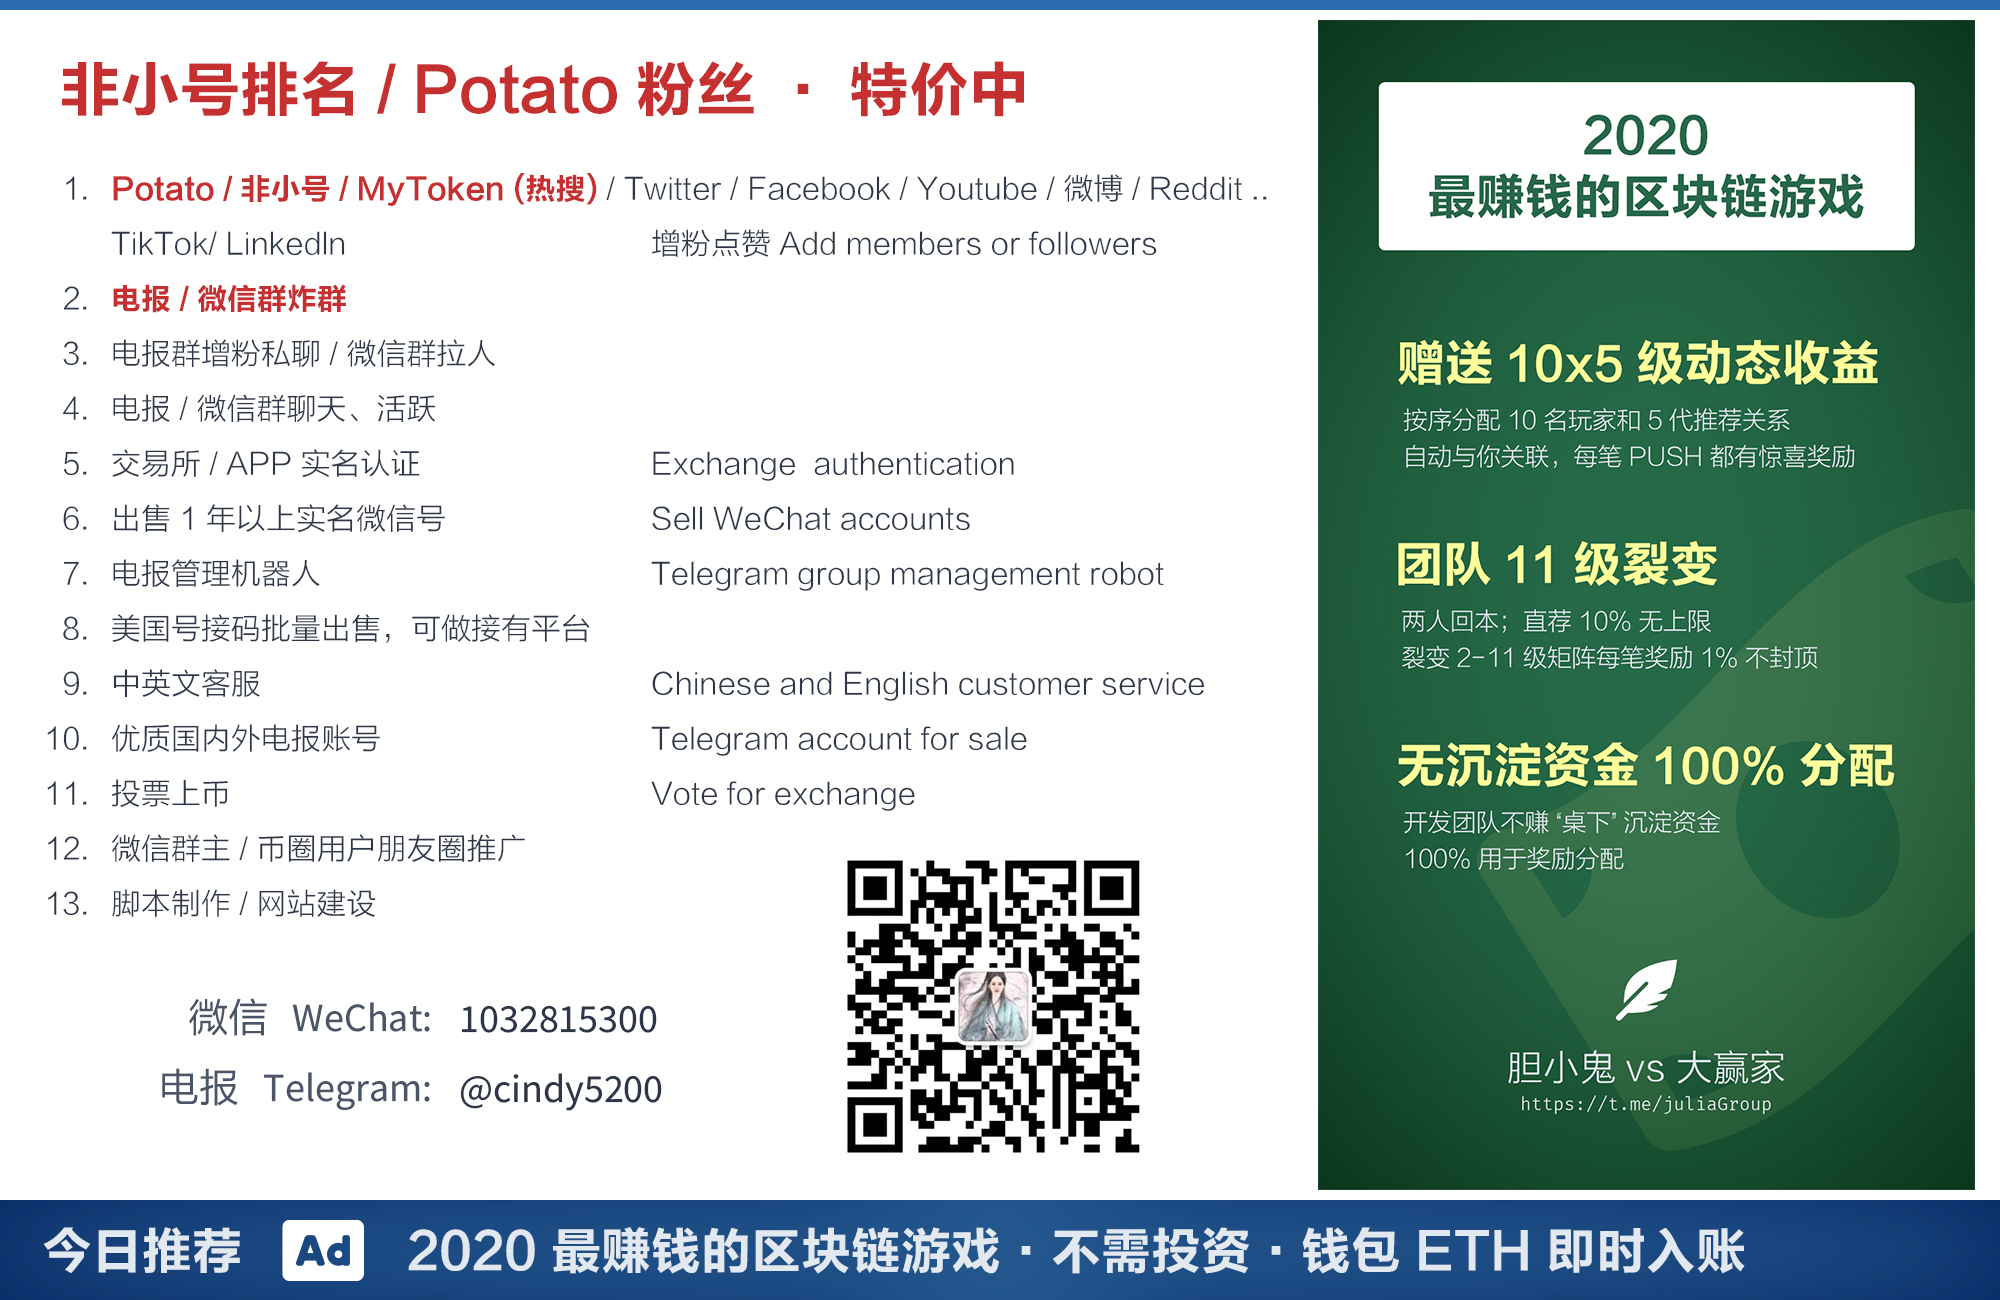
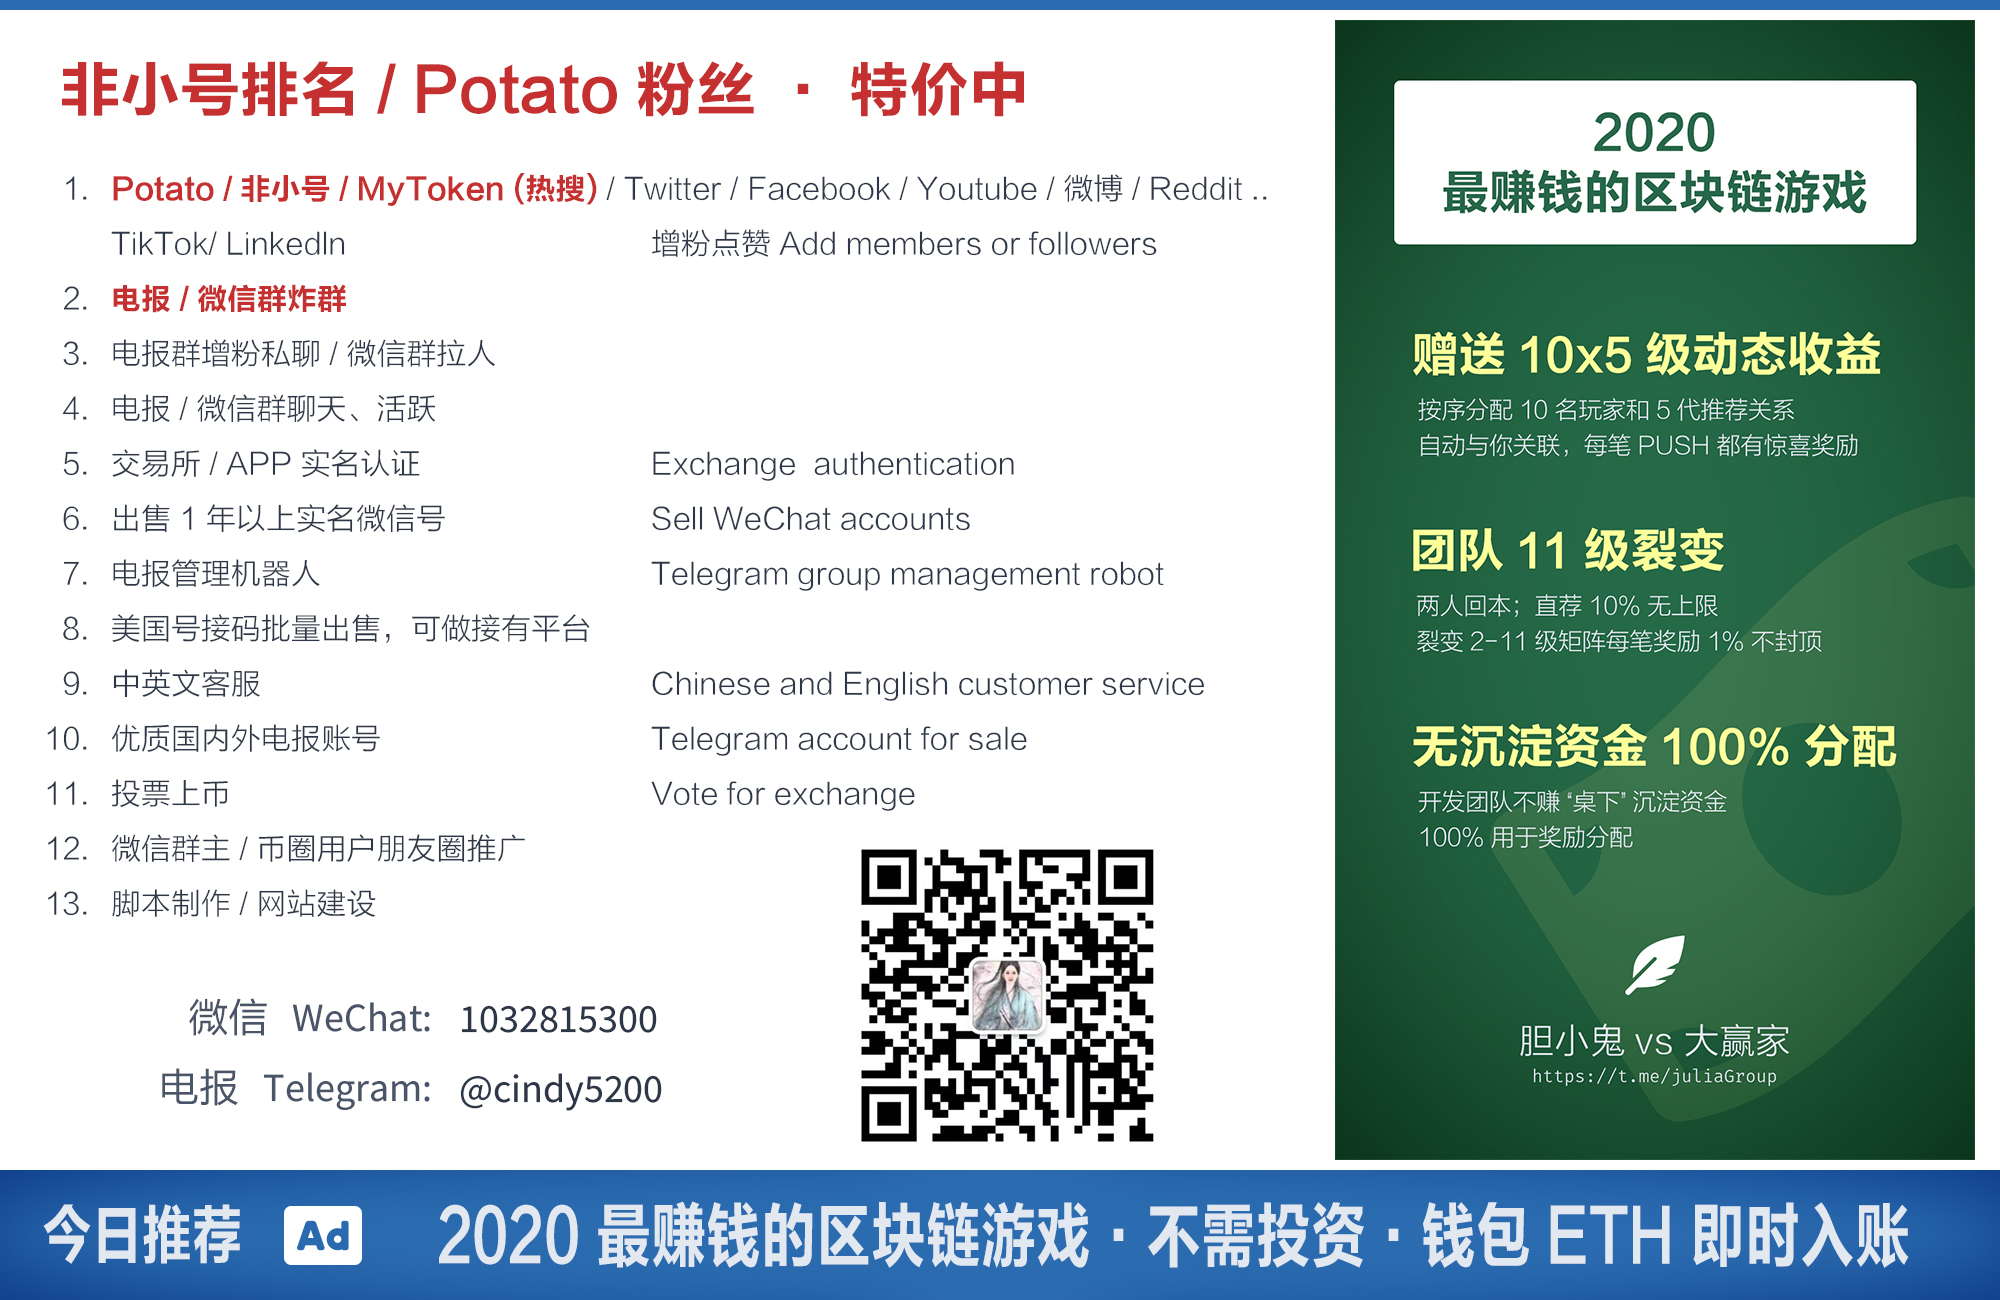
updated ad via cindy5200

Changed region(s): [[0.0, 0.0, 1.0, 1.0], [0.744, 0.7077, 0.899, 0.8615], [0.93, 0.0615, 0.961, 0.0923]]

diff --git a/ad-cindy5200.md b/ad-cindy5200.md
@@ -11,17 +11,139 @@ tagline: 定案后再开始投放
 
 ## 文本
 
-Sample 1
+初始席位有限，快来进群组队
 
 ```text
-🔥
-《胆小鬼 vs 大赢家》 创世玩家招募中，启动筹备，欢迎来撩 @juliaGroup
+🔥 启动筹备中，初始席位有限，快来进群组队 @juliaGroup
 ```
 
-Sample 2
+```text
+🔥 创世筹备中，初始席位有限，快来进群组队 @juliaGroup
+```
 
-Sample 3
+```text
+🔥 创世招募中，初始席位有限，快来进群组队 @juliaGroup
+```
 
-..
 
-待定
+初始席位有限，快快进群组队
+
+```text
+🔥 启动筹备中，初始席位有限，快快进群组队 @juliaGroup
+```
+
+```text
+🔥 创世筹备中，初始席位有限，快快进群组队 @juliaGroup
+```
+
+```text
+🔥 创世招募中，初始席位有限，快快进群组队 @juliaGroup
+```
+
+
+初始席位有限，快来预定
+
+```text
+🔥 启动筹备中，初始席位有限，快来预定 @juliaGroup
+```
+
+```text
+🔥 创世筹备中，初始席位有限，快来预定 @juliaGroup
+```
+
+```text
+🔥 创世招募中，初始席位有限，快来预定 @juliaGroup
+```
+
+
+来来，进群组队
+
+```text
+🔥 启动筹备中，来来，进群组队 @juliaGroup
+```
+
+```text
+🔥 创世筹备中，来来，进群组队 @juliaGroup
+```
+
+```text
+🔥 创世招募中，来来，进群组队 @juliaGroup
+```
+
+
+## 次选文本
+
+初始席位有限，来撩
+
+```text
+🔥 启动筹备中，初始席位有限，来撩 @juliaGroup
+```
+
+```text
+🔥 创世筹备中，初始席位有限，来撩 @juliaGroup
+```
+
+```text
+🔥 创世招募中，初始席位有限，来撩 @juliaGroup
+```
+
+
+来来，进群领福利
+
+```text
+🔥 启动筹备中，来来，进群领福利 @juliaGroup
+```
+
+```text
+🔥 创世筹备中，来来，进群领福利 @juliaGroup
+```
+
+```text
+🔥 创世招募中，来来，进群领福利 @juliaGroup
+```
+
+
+
+欢迎来撩
+
+```text
+🔥 启动筹备中，欢迎来撩 @juliaGroup
+```
+
+```text
+🔥 创世筹备中，欢迎来撩 @juliaGroup
+```
+
+```text
+🔥 创世招募中，欢迎来撩 @juliaGroup
+```
+
+
+等你来撩
+
+```text
+🔥 启动筹备中，等你来撩 @juliaGroup
+```
+
+```text
+🔥 创世筹备中，等你来撩 @juliaGroup
+```
+
+```text
+🔥 创世招募中，等你来撩 @juliaGroup
+```
+
+
+## 其它海报 3in1
+
+![pop3in1](/assets/pops/pop3in1.jpg)
+
+
+
+## 其它海报 独立 x3
+
+![pop1](/assets/pops/pop1.jpg)
+
+![pop2](/assets/pops/pop2.jpg)
+
+![pop3](/assets/pops/pop3.jpg)
